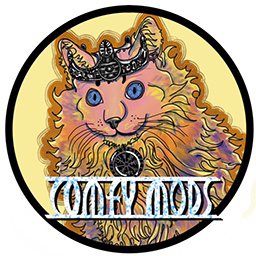
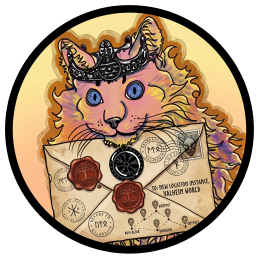
Update PostalCode to `v1.2.0`.
* Fixed for the `v1.0.12` patch.
* Migrated to SDK-style project.
* Updated mod icon.

diff --git a/PostalCode/ComfyLib/Commands/ComfyArgs.cs b/PostalCode/ComfyLib/Commands/ComfyArgs.cs
@@ -1,4 +1,4 @@
-namespace ComfyLib;
+namespace ComfyLib;
 
 using System;
 using System.Collections.Generic;
@@ -6,16 +6,23 @@ using System.Text.RegularExpressions;
 
 public sealed class ComfyArgs {
   public static readonly Regex CommandRegex =
-      new("^(?<command>\\w[\\w-]*)"
-          + "(?:\\s+--"
-              + "(?:(?<arg>\\w[\\w-]*)=(?:\"(?<value>[^\"]*?)\""
-              + "|(?<value>\\S+))"
-              + "|no(?<argfalse>\\w[\\w-]*)"
-              + "|(?<argtrue>\\w[\\w-]*)))*");
+      new Regex(
+          @"^(?<command>\w[\w-]*)"
+              + @"(\s+--("
+                  + @"(?<arg>\w[\w-]*)="
+                      + @"(""(?<value>[^""]*?)"""
+                      + @"|'(?<value>[^']*?)'"
+                      + @"|(?<value>\S+))"
+                  + @"|no(?<argfalse>\w[\w-]*)"
+                  + @"|(?<argtrue>\w[\w-]*)))*",
+          RegexOptions.ExplicitCapture | RegexOptions.Compiled | RegexOptions.CultureInvariant,
+          TimeSpan.FromMilliseconds(500));
 
   public static readonly char[] CommaSeparator = [','];
 
   public Terminal.ConsoleEventArgs Args { get; }
+  public Terminal Context { get => Args.Context; }
+
   public string Command { get; private set; }
   public readonly Dictionary<string, string> ArgsValueByName = [];
 
@@ -37,10 +44,13 @@ public sealed class ComfyArgs {
     }
 
     CaptureCollection names = match.Groups["arg"].Captures;
-    CaptureCollection values = match.Groups["value"].Captures;
+    int namesCount = names.Count;
 
-    for (int i = 0; i < names.Count; i++) {
-      ArgsValueByName[names[i].Value] = i < values.Count ? values[i].Value : string.Empty;
+    CaptureCollection values = match.Groups["value"].Captures;
+    int valuesCount = values.Count;
+
+    for (int i = 0; i < namesCount; i++) {
+      ArgsValueByName[names[i].Value] = i < valuesCount ? values[i].Value : string.Empty;
     }
   }
 
@@ -71,6 +81,15 @@ public sealed class ComfyArgs {
         && argStringValue.TryParseValue(out argValue);
   }
 
+  public bool TryGetListValue<T>(string argName, out List<T> argListValue) {
+    if (!ArgsValueByName.TryGetValue(argName, out string argStringValue)) {
+      argListValue = default;
+      return false;
+    }
+
+    return GetListValue(argStringValue, out argListValue);
+  }
+
   public bool TryGetListValue<T>(string argName, string argShortName, out List<T> argListValue) {
     if (!ArgsValueByName.TryGetValue(argName, out string argStringValue)
         && !ArgsValueByName.TryGetValue(argShortName, out argStringValue)) {
@@ -78,6 +97,10 @@ public sealed class ComfyArgs {
       return false;
     }
 
+    return GetListValue(argStringValue, out argListValue);
+  }
+
+  static bool GetListValue<T>(string argStringValue, out List<T> argListValue) {
     string[] values = argStringValue.Split(CommaSeparator, StringSplitOptions.RemoveEmptyEntries);
     argListValue = new(capacity: values.Length);
 

diff --git a/PostalCode/Core/Commands/RegisterLocationCommand.cs b/PostalCode/Core/Commands/RegisterLocationCommand.cs
@@ -1,4 +1,4 @@
-namespace PostalCode;
+namespace PostalCode;
 
 using ComfyLib;
 
@@ -23,7 +23,7 @@ public static class RegisterLocationCommand {
       return false;
     }
 
-    ZoneSystem zoneSystem = ZoneSystem.m_instance;
+    ZoneSystem zoneSystem = ZoneSystem.s_instance;
 
     if (!zoneSystem.m_locationsByHash.TryGetValue(
             prefabName.GetStableHashCode(), out ZoneSystem.ZoneLocation zoneLocation)) {
@@ -41,7 +41,7 @@ public static class RegisterLocationCommand {
       return false;
     }
 
-    Vector2i sector = ZoneSystem.GetZone(position);
+    Vector2s sector = ZoneSystem.GetZone(position);
 
     if (zoneSystem.m_locationInstances.TryGetValue(sector, out ZoneSystem.LocationInstance instance)) {
       PostalCode.LogInfo(
@@ -49,11 +49,12 @@ public static class RegisterLocationCommand {
               + $"sector: {sector:F0}, position: {position:F0}, generated: {instance.m_placed}.");
     }
 
-    zoneSystem.m_locationInstances[sector] = new() {
-      m_location = zoneLocation,
-      m_position = position,
-      m_placed = generated,
-    };
+    zoneSystem.m_locationInstances[sector] =
+        new ZoneSystem.LocationInstance() {
+          m_location = zoneLocation,
+          m_position = position,
+          m_placed = generated,
+        };
 
     PostalCode.LogInfo(
         $"Registered location {prefabName} at sector: {sector}, position: {position}, generated: {generated}.");

diff --git a/PostalCode/ComfyLib/Extensions/StringExtensions.cs b/PostalCode/ComfyLib/Extensions/StringExtensions.cs
@@ -1,4 +1,4 @@
-namespace ComfyLib;
+namespace ComfyLib;
 
 using System;
 using System.Globalization;
@@ -30,14 +30,14 @@ public static class StringExtensions {
       } else if (valueType == typeof(ZDOID) && text.TryParseZDOID(out ZDOID valueZDOID)) {
         value = (T) (object) valueZDOID;
       } else if (valueType.IsEnum) {
-        value = (T) Enum.Parse(valueType, text);
+        value = (T) Enum.Parse(valueType, text, ignoreCase: true);
       } else {
         value = (T) Convert.ChangeType(text, valueType);
       }
 
       return true;
     } catch (Exception exception) {
-      Debug.LogError($"Failed to convert value '{text}' to type {typeof(T)}: {exception}");
+      Debug.LogError($"Failed to convert value '{text}' to type {valueType}: {exception}");
     }
 
     value = default;
@@ -55,6 +55,20 @@ public static class StringExtensions {
     }
 
     value = default;
+    return false;
+  }
+
+  public static bool TryParseVector2i(this string text, out Vector2i vector) {
+    string[] parts = text.Split(CommaSeparator, 2, StringSplitOptions.RemoveEmptyEntries);
+
+    if (parts.Length == 2
+        && int.TryParse(parts[0], NumberStyles.Float, CultureInfo.InvariantCulture, out int x)
+        && int.TryParse(parts[1], NumberStyles.Float, CultureInfo.InvariantCulture, out int y)) {
+      vector = new(x, y);
+      return true;
+    }
+
+    vector = default;
     return false;
   }
 

diff --git a/PostalCode/ComfyLib/Commands/ComfyCommand.cs b/PostalCode/ComfyLib/Commands/ComfyCommand.cs
@@ -1,9 +1,11 @@
-namespace ComfyLib;
+namespace ComfyLib;
 
 using System;
 using System.Collections.Generic;
 using System.Linq;
 using System.Reflection;
+
+using UnityEngine;
 
 [AttributeUsage(AttributeTargets.Method)]
 public sealed class ComfyCommand : Attribute {
@@ -25,7 +27,9 @@ public static class ComfyCommandUtils {
   }
 
   static void UpdateCommandLists() {
-    foreach (Terminal terminal in UnityEngine.Object.FindObjectsOfType<Terminal>(includeInactive: true)) {
+    foreach (
+        Terminal terminal in
+            UnityEngine.Object.FindObjectsByType<Terminal>(FindObjectsInactive.Include, FindObjectsSortMode.None)) {
       terminal.updateCommandList();
     }
   }

diff --git a/PostalCode/Core/Commands/ListLocationCommand.cs b/PostalCode/Core/Commands/ListLocationCommand.cs
@@ -1,4 +1,4 @@
-namespace PostalCode;
+namespace PostalCode;
 
 using System.Collections.Generic;
 
@@ -23,11 +23,11 @@ public static class ListLocationCommand {
       return false;
     }
 
-    ZoneSystem zoneSystem = ZoneSystem.m_instance;
+    ZoneSystem zoneSystem = ZoneSystem.s_instance;
     List<string> positions = [];
 
     foreach (ZoneSystem.LocationInstance locationInstance in zoneSystem.m_locationInstances.Values) {
-      if (locationInstance.m_location.m_prefab.Name == prefabName) {
+      if (locationInstance.m_location.m_prefabName == prefabName) {
         positions.Add(locationInstance.m_position.ToString("F0"));
       }
     }

diff --git a/PostalCode/Core/Commands/DeregisterLocationCommand.cs b/PostalCode/Core/Commands/DeregisterLocationCommand.cs
@@ -1,4 +1,4 @@
-namespace PostalCode;
+namespace PostalCode;
 
 using ComfyLib;
 
@@ -23,8 +23,8 @@ public static class DeregisterLocationCommand {
       return false;
     }
 
-    ZoneSystem zoneSystem = ZoneSystem.m_instance;
-    Vector2i sector = ZoneSystem.GetZone(position);
+    ZoneSystem zoneSystem = ZoneSystem.s_instance;
+    Vector2s sector = ZoneSystem.GetZone(position);
 
     if (zoneSystem.m_locationInstances.TryGetValue(sector, out ZoneSystem.LocationInstance instance)) {
       PostalCode.LogInfo(

diff --git a/PostalCode/PostalCode.cs b/PostalCode/PostalCode.cs
@@ -1,4 +1,4 @@
-namespace PostalCode;
+namespace PostalCode;
 
 using System;
 using System.Globalization;
@@ -15,7 +15,7 @@ using HarmonyLib;
 public sealed class PostalCode : BaseUnityPlugin {
   public const string PluginGuid = "redseiko.valheim.postalcode";
   public const string PluginName = "PostalCode";
-  public const string PluginVersion = "1.1.0";
+  public const string PluginVersion = "1.2.0";
 
   static ManualLogSource _logger;
 

diff --git a/PostalCode/Properties/AssemblyInfo.cs b/PostalCode/Properties/AssemblyInfo.cs
@@ -1,4 +1,4 @@
-using System.Reflection;
+using System.Reflection;
 using System.Runtime.InteropServices;
 
 [assembly: AssemblyTitle("PostalCode")]

diff --git a/PostalCode/ComfyLib/Extensions/UnityExtensions.cs b/PostalCode/ComfyLib/Extensions/UnityExtensions.cs
@@ -1,4 +1,4 @@
-namespace ComfyLib;
+namespace ComfyLib;
 
 using System;
 using System.Collections.Generic;

diff --git a/PostalCode/Patches/TerminalPatch.cs b/PostalCode/Patches/TerminalPatch.cs
@@ -1,4 +1,4 @@
-namespace PostalCode;
+namespace PostalCode;
 
 using ComfyLib;
 

diff --git a/PostalCode/CHANGELOG.md b/PostalCode/CHANGELOG.md
@@ -1,5 +1,11 @@
 ## Changelog
 
+### 1.2.0
+
+  * Fixed for the `v1.0.12` patch.
+  * Migrated to SDK-style project.
+  * Updated mod icon.
+
 ### 1.1.0
 
   * Updated for the `v0.219.16` patch.
